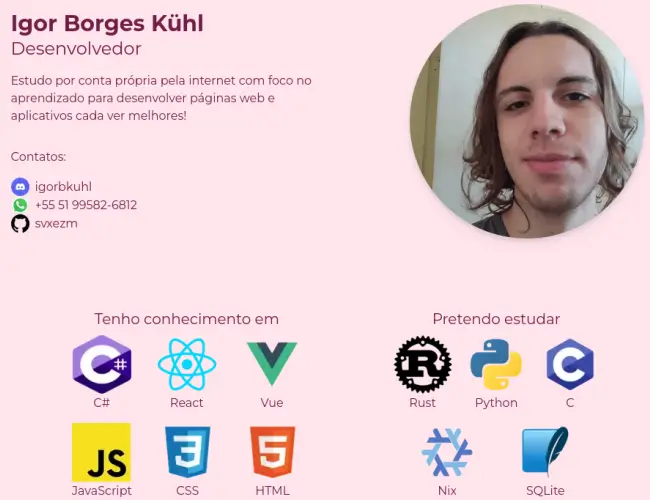
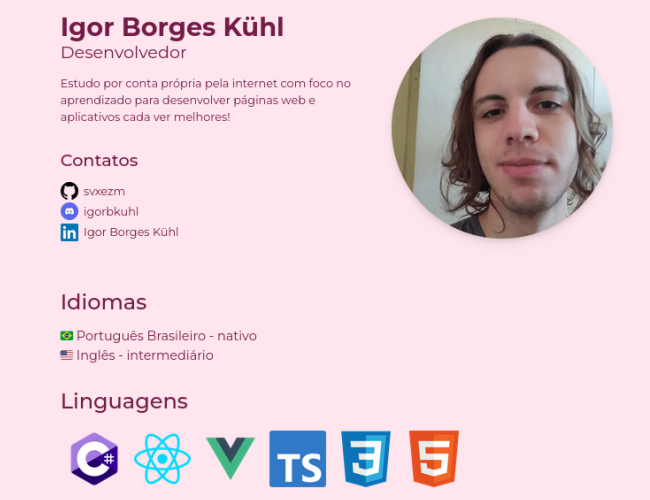
Change image to new layout

diff --git a/src/components/Main/Languages/LanguageItem.tsx b/src/components/Main/Languages/LanguageItem.tsx
@@ -1,19 +1,19 @@
 import { useState } from "react";
-import Image from "next/image";
+import Image, { StaticImageData } from "next/image";
 
 interface LanguageItemProps {
-    icon: string;
+    icon: StaticImageData;
     alt: string;
 }
 
-export default function LanguageItem({ icon, text }: LanguageItemProps) {
+    export default const LanguageItem: React.FC<LanguageItemProps> = ({ icon, text }) => {
     const [isHover, setIsHover] = useState(false);
 
     return (
         <div
             className="relative">
             <Image
-                src={icon}
+                src={icon.src}
                 alt={text}
                 height="80"
                 width="80"
